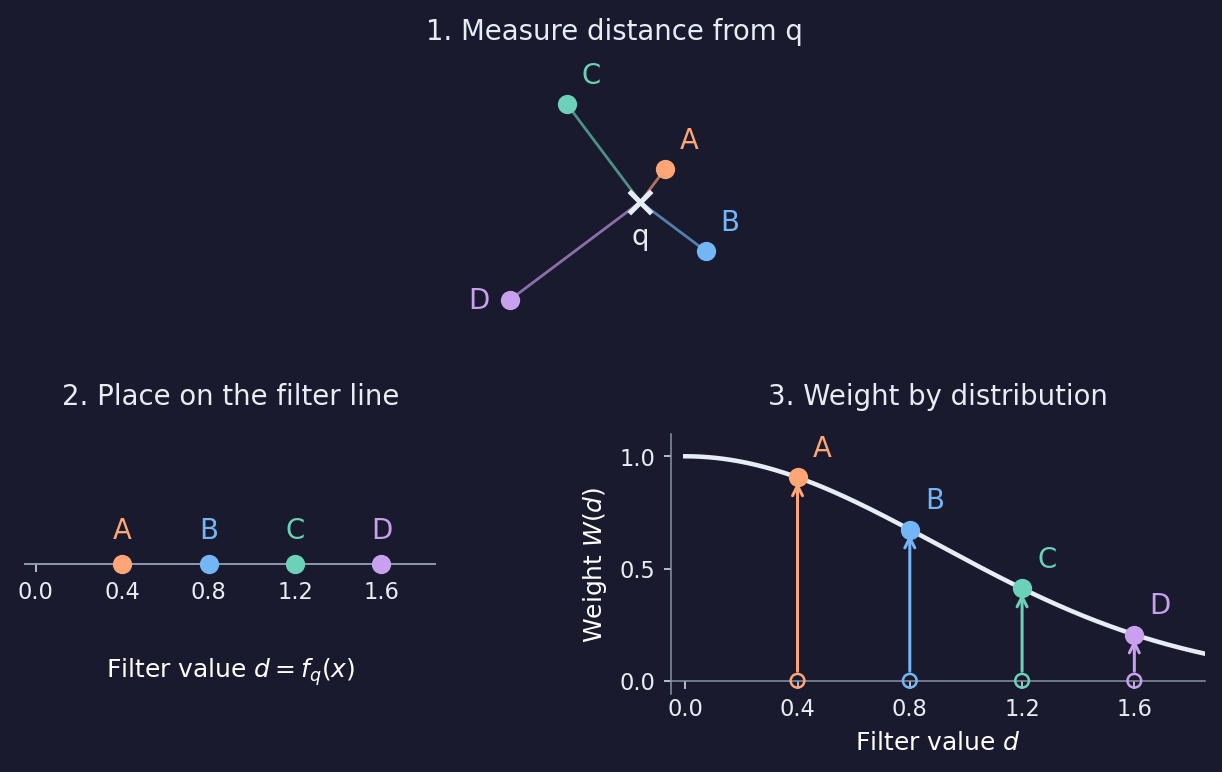
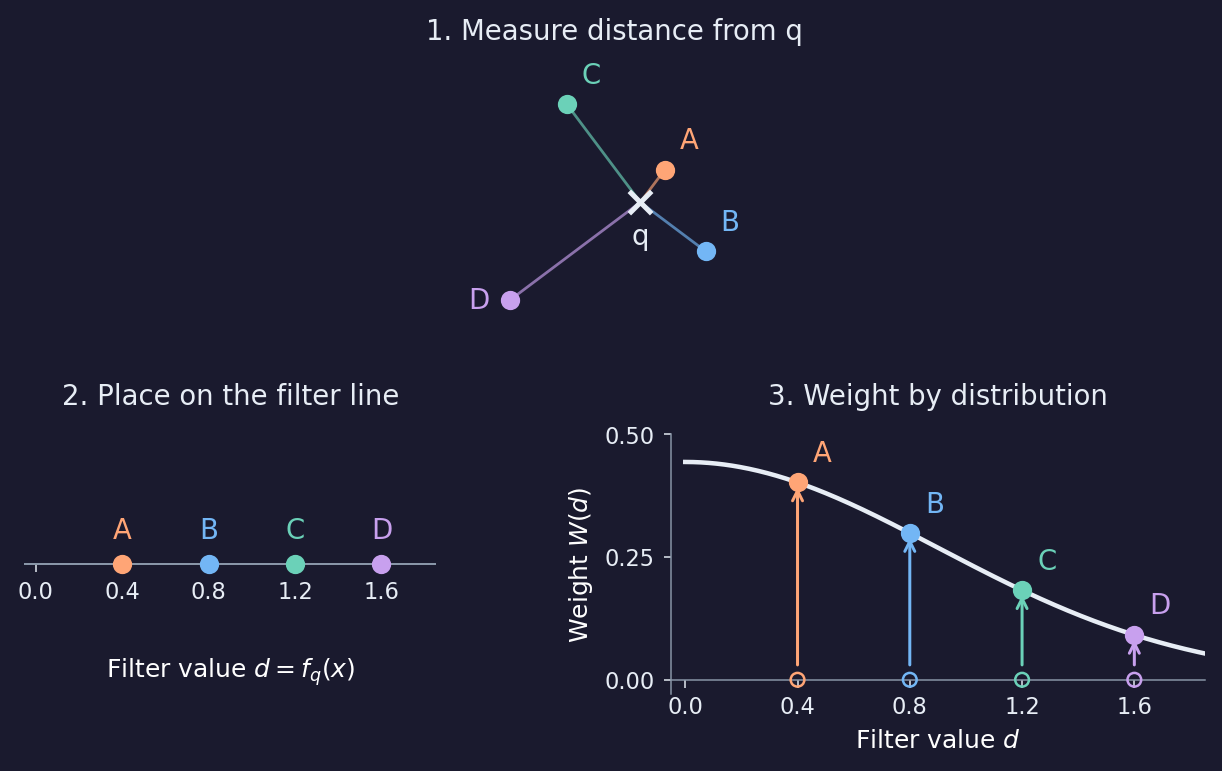
Document distribution weights and distance heatmaps

diff --git a/docs/_static/gen_relative_subsampling_fig.py b/docs/_static/gen_relative_subsampling_fig.py
@@ -11,6 +11,7 @@ import matplotlib.pyplot as plt
 from matplotlib.colors import LinearSegmentedColormap, ListedColormap
 import numpy as np
 import stablebear as sb
+from stablebear.plotting import plot_distance_weight_heatmap
 
 
 def plot_relative_subsamples(*, uniform=False, dark=False):
@@ -27,6 +28,7 @@ def plot_relative_subsamples(*, uniform=False, dark=False):
     else:
         distribution = sb.distributions.Gaussian(sigma=0.4)
         title = r"Gaussian distance weights ($\sigma = 0.4$)"
+    peak = distribution.weight(0.0)
     samples = sb.random.subsample_relative(
         sb.PointCloud(points), queries, n_points=10,
         distribution=distribution,
@@ -34,8 +36,6 @@ def plot_relative_subsamples(*, uniform=False, dark=False):
     )
 
     extent = (-1.15, 1.15, -1.15, 1.15)
-    grid = np.linspace(extent[0], extent[1], 601)
-    x, y = np.meshgrid(grid, grid)
     # Higher weights are lighter in both themes, with a wide luminance range.
     field_colors = (["#172331", "#316c90", "#8bd1ed"] if dark else
                     ["#155477", "#78acc9", "#f5f7f9"])
@@ -44,18 +44,10 @@ def plot_relative_subsamples(*, uniform=False, dark=False):
 
     fig, axes = plt.subplots(1, 3, figsize=(11, 4), sharex=True, sharey=True)
     for i, ax in enumerate(axes):
-        # Apply the weight function to distance across the plane for illustration.
-        # Sampling normalizes its values only at the reference points.
-        distance = np.hypot(x - queries[i, 0], y - queries[i, 1])
-        if uniform:
-            weight = ((distance >= distribution.start)
-                      & (distance < distribution.end)).astype(float)
-        else:
-            weight = np.exp(-0.5 * ((distance - distribution.mean)
-                                   / distribution.sigma)**2)
-        heatmap = ax.imshow(weight, origin="lower", extent=extent,
-                            cmap=cmap, vmin=0, vmax=1, zorder=0,
-                            interpolation="nearest")
+        heatmap = plot_distance_weight_heatmap(
+            distribution, query=queries[i], extent=extent, ax=ax,
+            cmap=cmap, vmin=0, vmax=peak, zorder=0,
+        )
         selected = np.asarray(samples[i, 0])
         ax.scatter(points[:, 0], points[:, 1], s=17, color=point_color,
                    edgecolors=outline_color, linewidths=0.45,
@@ -87,8 +79,8 @@ def plot_relative_subsamples(*, uniform=False, dark=False):
     fig.subplots_adjust(left=0.06, right=0.87, bottom=0.22, top=0.86,
                         wspace=0.12)
     colorbar_ax = fig.add_axes((0.9, 0.22, 0.015, 0.64))
-    colorbar = fig.colorbar(heatmap, cax=colorbar_ax, label="Distance weight (unnormalized)",
-                 ticks=[0, 1] if uniform else [0, 0.25, 0.5, 0.75, 1])
+    colorbar = fig.colorbar(heatmap, cax=colorbar_ax, label="Distance weight",
+                 ticks=[0, peak] if uniform else None)
     colorbar.outline.set_visible(False)
     colorbar.ax.tick_params(length=0, labelsize=9)
     return fig

diff --git a/docs/_static/gen_filter_function_fig.py b/docs/_static/gen_filter_function_fig.py
@@ -9,6 +9,7 @@ matplotlib.use("Agg")
 # -- docs snippet start filter_function --
 import matplotlib.pyplot as plt
 import numpy as np
+import stablebear as sb
 
 
 def plot_filter_function(*, dark=False):
@@ -21,7 +22,8 @@ def plot_filter_function(*, dark=False):
     ])
     distances = np.linalg.norm(points - query, axis=1)
     sigma = 0.9
-    weights = np.exp(-0.5 * (distances / sigma)**2)
+    distribution = sb.distributions.Gaussian(sigma=sigma)
+    weights = distribution.weight(distances)
 
     ink = "#e7edf5" if dark else "#253746"
     muted = "#8996a8" if dark else "#7b8894"
@@ -69,7 +71,7 @@ def plot_filter_function(*, dark=False):
                          color=color, fontsize=11)
 
     d = np.linspace(0, 1.85, 400)
-    weight_ax.plot(d, np.exp(-0.5 * (d / sigma)**2), color=ink, linewidth=1.8)
+    weight_ax.plot(d, distribution.weight(d), color=ink, linewidth=1.8)
     for distance, weight, label, color in zip(distances, weights, "ABCD", colors):
         weight_ax.scatter(distance, 0, s=30, facecolors="none", edgecolors=color, zorder=3)
         weight_ax.annotate("", xy=(distance, weight), xytext=(distance, 0.02),
@@ -78,8 +80,8 @@ def plot_filter_function(*, dark=False):
         weight_ax.annotate(label, (distance, weight), xytext=(6, 6),
                            textcoords="offset points", ha="left", va="bottom",
                            color=color, fontsize=11)
-    weight_ax.set(xlim=(-0.05, 1.85), ylim=(-0.06, 1.1),
-                  xticks=[0, 0.4, 0.8, 1.2, 1.6], yticks=[0, 0.5, 1],
+    weight_ax.set(xlim=(-0.05, 1.85), ylim=(-0.03, 0.5),
+                  xticks=[0, 0.4, 0.8, 1.2, 1.6], yticks=[0, 0.25, 0.5],
                   xlabel=r"Filter value $d$", ylabel=r"Weight $W(d)$")
     weight_ax.spines[["top", "right"]].set_visible(False)
     weight_ax.spines["bottom"].set_position(("data", 0))

diff --git a/docs/_static/gen_weight_function_fig.py b/docs/_static/gen_weight_function_fig.py
@@ -1,0 +1,39 @@
+"""Plot distribution weights on a two-dimensional grid."""
+
+from pathlib import Path
+
+import matplotlib
+
+matplotlib.use("Agg")
+
+# -- docs snippet start weight_heatmaps --
+import matplotlib.pyplot as plt
+import stablebear as sb
+from stablebear.plotting import plot_distance_weight_heatmap
+
+
+def plot_weight_heatmaps():
+    gaussian = sb.distributions.Gaussian(sigma=0.5)
+    uniform = sb.distributions.Uniform(0.8, 1.2)
+    mixture = sb.distributions.Mixture([gaussian, uniform], [0.8, 0.2])
+    extent = (-1.65, 1.65, -1.65, 1.65)
+
+    fig, axes = plt.subplots(1, 3, figsize=(10, 3.3), layout="constrained")
+    for ax, distribution, title in zip(
+        axes, [gaussian, uniform, mixture], ["Gaussian", "Uniform", "Mixture"]
+    ):
+        heatmap = plot_distance_weight_heatmap(distribution, extent=extent, ax=ax)
+        ax.set(title=title, xlabel="x", ylabel="y", aspect="equal")
+        fig.colorbar(heatmap, ax=ax, label="Weight", shrink=0.75)
+    return fig
+# -- docs snippet end weight_heatmaps --
+
+
+if __name__ == "__main__":
+    for theme, style in [("light", "default"), ("dark", "dark_background")]:
+        with plt.style.context(style):
+            fig = plot_weight_heatmaps()
+            output = Path(__file__).with_name(f"weight_heatmaps_{theme}.png")
+            fig.savefig(output, dpi=180, bbox_inches="tight", transparent=True)
+            plt.close(fig)
+            print(f"Saved {output}")

diff --git a/docs/distributions.rst b/docs/distributions.rst
@@ -1,0 +1,113 @@
+=============
+Distributions
+=============
+
+:mod:`stablebear.distributions` provides Gaussian, Uniform, and Mixture
+distributions. Their ``weight(values)`` methods evaluate weights for plotting
+and sampling.
+
+.. list-table:: Available distributions
+   :header-rows: 1
+   :widths: 20 35 45
+
+   * - Distribution
+     - Parameters
+     - Constraints and conventions
+   * - :class:`~stablebear.distributions.Gaussian`
+     - ``mean=0``, ``sigma=1``
+     - Finite mean and finite positive standard deviation.
+   * - :class:`~stablebear.distributions.Uniform`
+     - ``start=0``, ``end=1``
+     - Interval ``[start, end)`` with ``start < end``.
+       ``start=-inf`` and ``end=inf`` are allowed.
+   * - :class:`~stablebear.distributions.Mixture`
+     - ``distributions``, ``weights`` (both required)
+     - Nonempty sequences of equal length. Components may include mixtures.
+       Weights must be finite and nonnegative, with at least one positive;
+       they are normalized and need not sum to one.
+
+Parameters can be passed by position or by keyword::
+
+   import stablebear as sb
+
+   gaussian = sb.distributions.Gaussian(2.0, 0.3)
+   uniform = sb.distributions.Uniform(start=1.0, end=2.0)
+
+Evaluating weights
+==================
+
+Pass a scalar or an array of filter values to ``weight``::
+
+   gaussian.weight(2.0)             # approximately 1.3298
+   uniform.weight([0.5, 1.0, 1.5])   # array([0., 1., 1.])
+
+Scalar input returns a float. Array-like input returns a float64 NumPy array
+with the same shape, including multidimensional grids. Values must be finite
+real numbers; negative filter values are accepted.
+
+Gaussian weights are the normalized density
+:math:`\exp(-\tfrac12((x-\mu)/\sigma)^2)/(\sigma\sqrt{2\pi})`.
+A finite Uniform interval has density ``1 / (end - start)`` on ``[start, end)``
+and zero elsewhere.
+
+**Unbounded Uniform intervals are a special case:** they use weight one on
+``[start, end)``. Either endpoint may be infinite; ``Uniform(-inf, inf)``
+gives weight one everywhere. These weights do not integrate to one.
+
+Mixture coefficients are normalized at construction and stored in ``weights``.
+Evaluation combines component weights using these fixed coefficients::
+
+   mixture = sb.distributions.Mixture([gaussian, uniform], [1, 3])
+   mixture.weights  # (0.25, 0.75)
+   weights = mixture.weight([0.5, 1.0, 1.5])
+
+Each value is evaluated independently, so changing the grid or evaluating one
+value at a time does not change the result. A mixture of normalized densities
+is itself normalized. A positive-weight unbounded Uniform component, including
+one in a nested mixture, carries the unbounded-interval exception into the
+mixture.
+
+For sampling, the combined weights are normalized over the reference points
+once. Components are not individually normalized over those points.
+
+Heatmaps
+========
+
+:func:`~stablebear.plotting.plot_distance_weight_heatmap` creates a grid and plots
+weights against distance from ``query``, which defaults to the origin.
+Pass ``ax`` to draw on an existing Matplotlib axes. The helper chooses bounds
+automatically from ``distribution.plot_range()``: Gaussian uses
+``mean ± 3*sigma``, Uniform uses its interval, and Mixture spans its
+positive-weight components. The heatmap is centered on ``query`` and includes
+a 10% margin. Unbounded ranges require an explicit ``extent``.
+
+Use ``extent=(xmin, xmax, ymin, ymax)`` to override the bounds and ``resolution``
+to set the number of pixels per axis (default 512). The helper returns a
+Matplotlib image for adding a colorbar or adjusting the color scale. Each panel below has its
+own color scale. The colors show distribution weights evaluated at distances,
+not a probability density over the plane.
+
+.. image:: _static/weight_heatmaps_light.png
+   :width: 100%
+   :alt: Gaussian weights concentrated near the origin, Uniform weights on an annulus, and a mixture combining the two regions.
+   :class: only-light
+
+.. image:: _static/weight_heatmaps_dark.png
+   :width: 100%
+   :alt: Gaussian weights concentrated near the origin, Uniform weights on an annulus, and a mixture combining the two regions.
+   :class: only-dark
+
+.. dropdown:: Show code
+   :color: secondary
+
+   .. literalinclude:: _static/gen_weight_function_fig.py
+      :language: python
+      :start-after: docs snippet start weight_heatmaps --
+      :end-before: docs snippet end weight_heatmaps --
+
+   .. code-block:: python
+
+      fig = plot_weight_heatmaps()
+      plt.show()
+
+For constructor parameters, see :doc:`api_distributions`.

diff --git a/docs/random.rst b/docs/random.rst
@@ -7,6 +7,11 @@ regardless of thread count or execution order. All random generation functions
 accept an optional :py:class:`~stablebear.random.Generator` for explicit seed
 control.
 
+.. toctree::
+   :maxdepth: 1
+
+   Distributions <distributions>
+
 
 Generators
 ==========
@@ -106,6 +111,21 @@ For example, draw two samples of three points from a four-point cloud::
    :maxdepth: 1
 
    Subsampling <subsampling>
+
+
+Relative subsampling
+====================
+
+:py:func:`~stablebear.random.subsample_relative` selects points from one
+reference dataset using weights derived from a filter function. The current
+filter is distance from a query point; Gaussian, Uniform, and Mixture
+weight functions control which distances to favor.
+
+.. toctree::
+   :maxdepth: 1
+
+   Relative subsampling <relative_subsampling>
+   Shared subsampling options <subsampling_options>
 
 
 How determinism works

diff --git a/docs/glossary.rst b/docs/glossary.rst
@@ -95,6 +95,17 @@ read its entry here.
       function. More generally, the preimage of a subset :math:`B\subseteq Y`
       is :math:`f^{-1}(B)=\{x\in X\mid f(x)\in B\}`.
 
+   principal submatrix
+      A matrix obtained from a square matrix by keeping the same selection
+      of rows and columns. For an index set :math:`S`, it is written
+      :math:`M[S,S]`. For example, keeping the first and third rows and
+      columns of a :math:`3\times 3` matrix gives
+
+      :math:`\begin{pmatrix} m_{11} & m_{13} \\ m_{31} & m_{33} \end{pmatrix}`.
+
+      For a distance matrix, this retains all pairwise distances between
+      the selected points.
+
    simplicial complex
       An abstract simplicial complex is a collection of finite nonempty
       sets, called simplices, that contains every nonempty subset of each

diff --git a/docs/api_distributions.rst b/docs/api_distributions.rst
@@ -1,0 +1,17 @@
+stablebear.distributions
+========================
+
+Distributions with weight evaluation for plotting and :func:`stablebear.random.subsample_relative`.
+See :doc:`distributions` for an overview of the available distributions and
+:doc:`relative_subsampling` for sampling examples.
+
+.. automodule:: stablebear.distributions
+
+.. autoclass:: stablebear.distributions.Gaussian
+   :members: weight, plot_range
+
+.. autoclass:: stablebear.distributions.Uniform
+   :members: weight, plot_range
+
+.. autoclass:: stablebear.distributions.Mixture
+   :members: weight, plot_range

diff --git a/docs/api_random.rst b/docs/api_random.rst
@@ -2,7 +2,9 @@ stablebear.random
 =================
 
 Random number generation and subsampling. See :doc:`random` for examples and
-:doc:`subsampling` for details on sampling point clouds and distance matrices.
+:doc:`subsampling` for uniform sampling, or :doc:`relative_subsampling` for
+sampling with filter-based weights. Their common options are described in
+:doc:`subsampling_options`.
 
 .. automodule:: stablebear.random
    :members:

diff --git a/docs/api_plotting.rst b/docs/api_plotting.rst
@@ -1,7 +1,7 @@
 stablebear.plotting
 ===================
 
-Plotting piecewise constant functions and barcodes. See :doc:`plotting` for
+Plotting piecewise constant functions, barcodes, and distribution heatmaps. See :doc:`plotting` for
 examples.
 
 .. automodule:: stablebear.plotting

diff --git a/docs/stablebear.rst b/docs/stablebear.rst
@@ -7,5 +7,6 @@ Python API reference
    api_base
    api_plotting
    api_random
+   api_distributions
    api_point_process
    api_persistence
